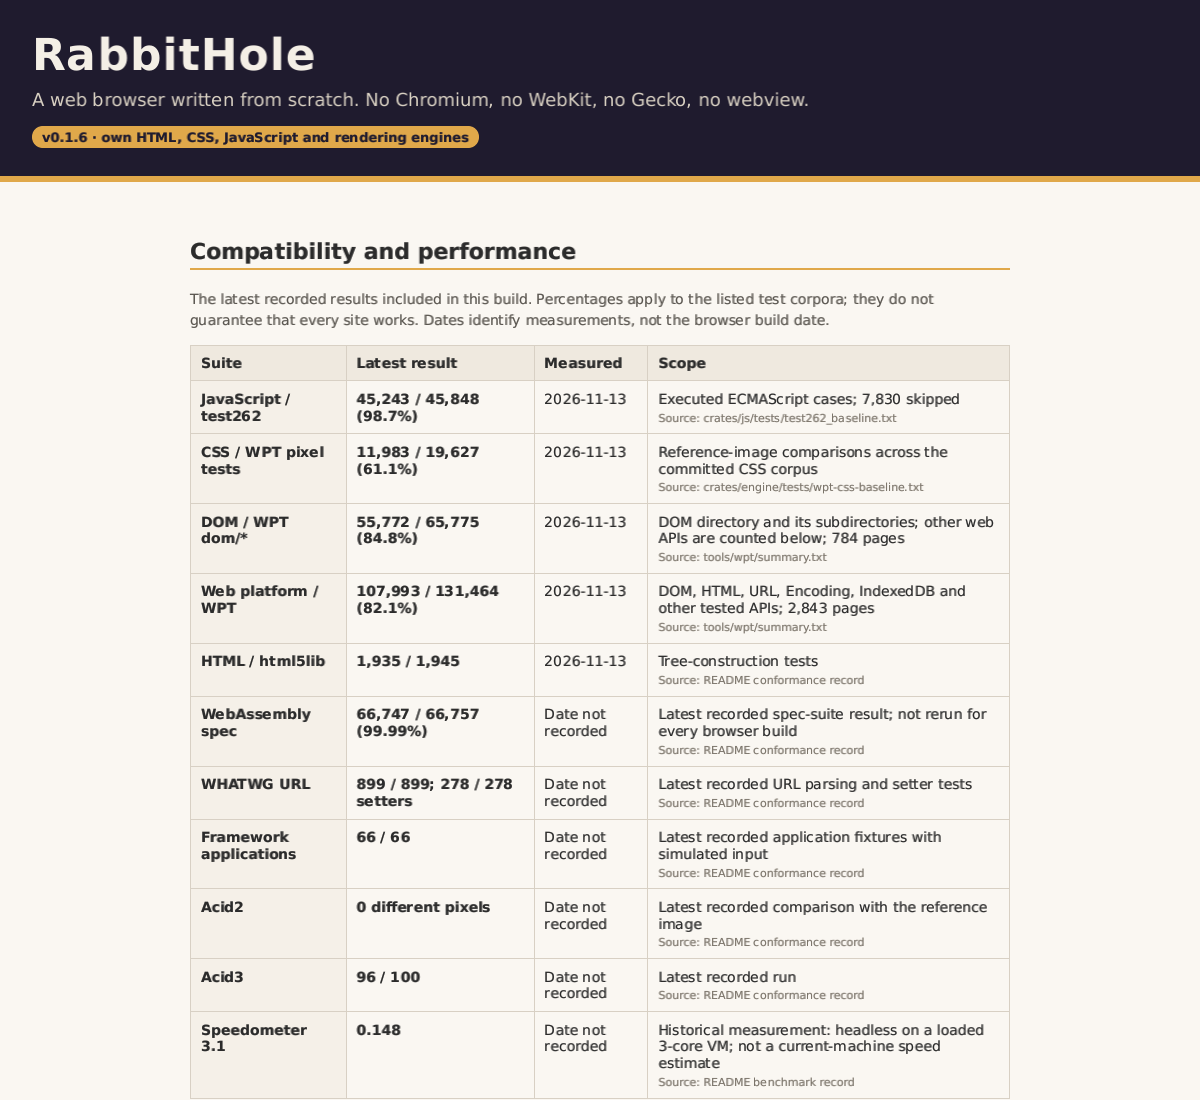
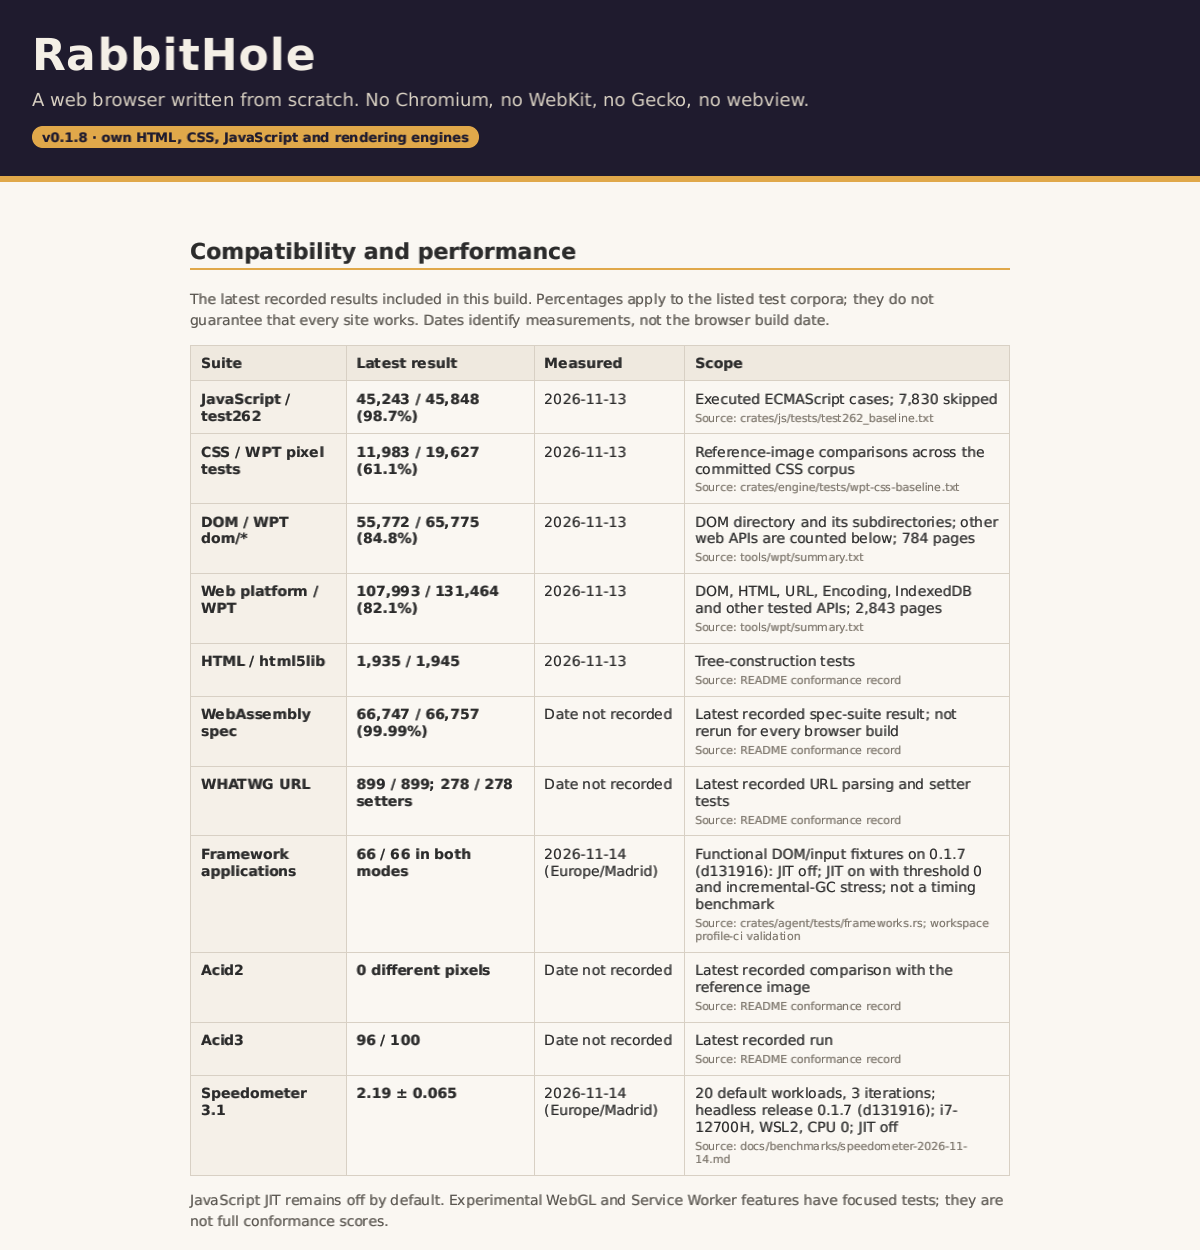
Refresh the start page capture with current measured performance

diff --git a/docs/benchmarks/speedometer-2026-11-14.md b/docs/benchmarks/speedometer-2026-11-14.md
@@ -8,8 +8,7 @@ Linux under WSL2. The suite reported its 95% confidence interval.
 There were 20 workloads and 58 substeps per iteration, giving 174 measured
 substeps across three iterations. This is a configured three-iteration result.
 No project builds or other project benchmarks ran concurrently; host background
-load was not otherwise controlled. A same-machine Chrome comparison has not
-been measured. The previous undated 0.148 record used a different, loaded
+load was not otherwise controlled. The previous undated 0.148 record used a different, loaded
 three-core VM, so it does not establish a comparable performance change.
 
 ## Results and provenance
